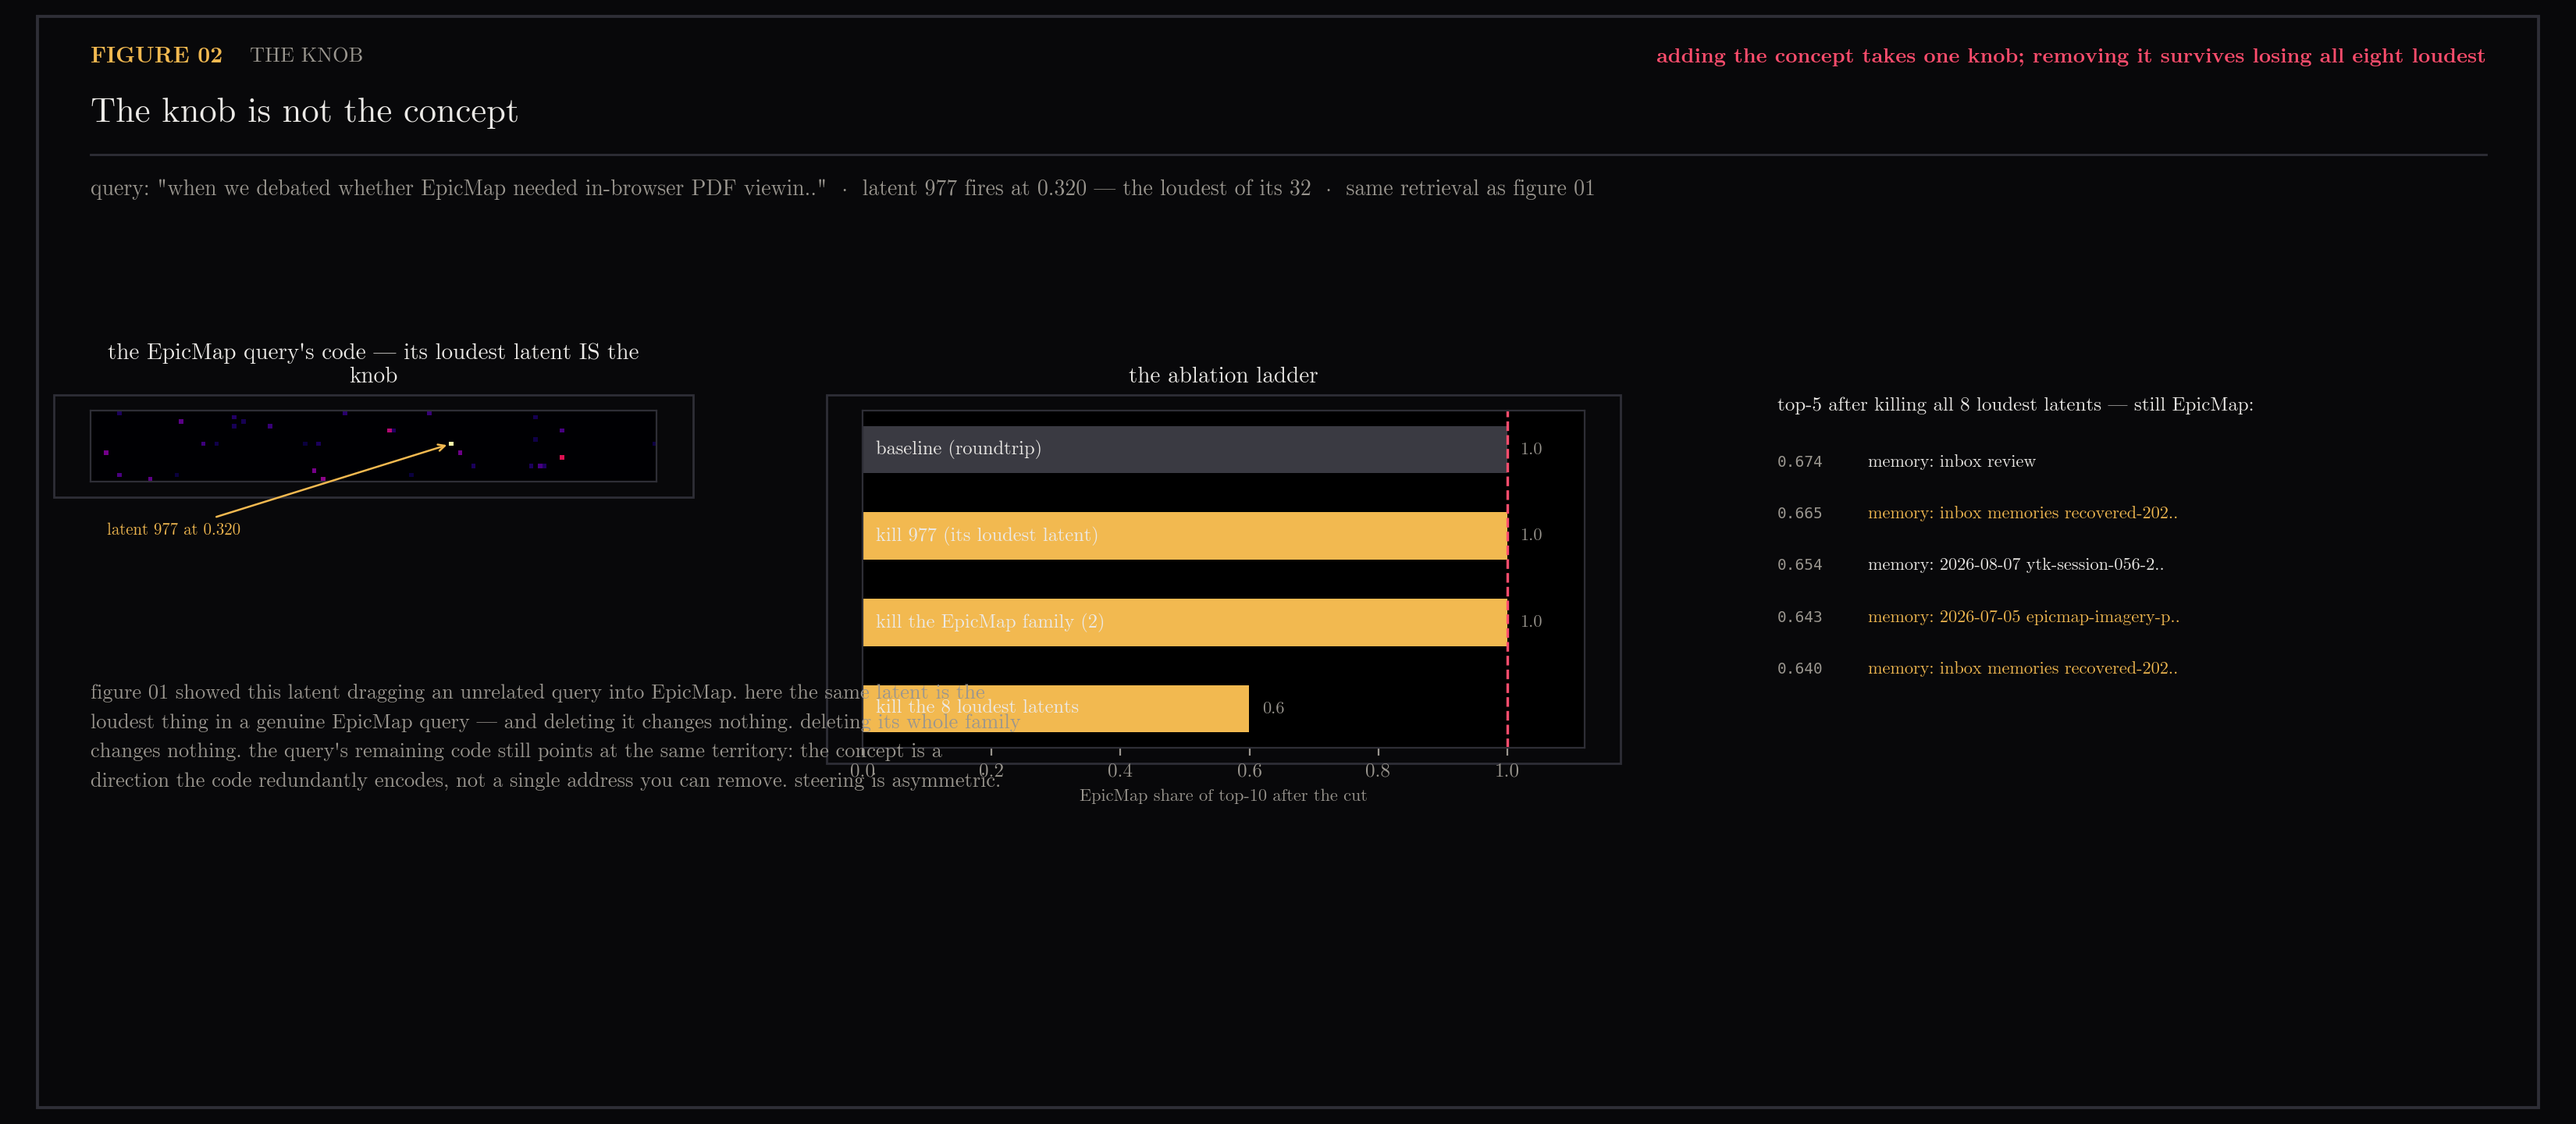
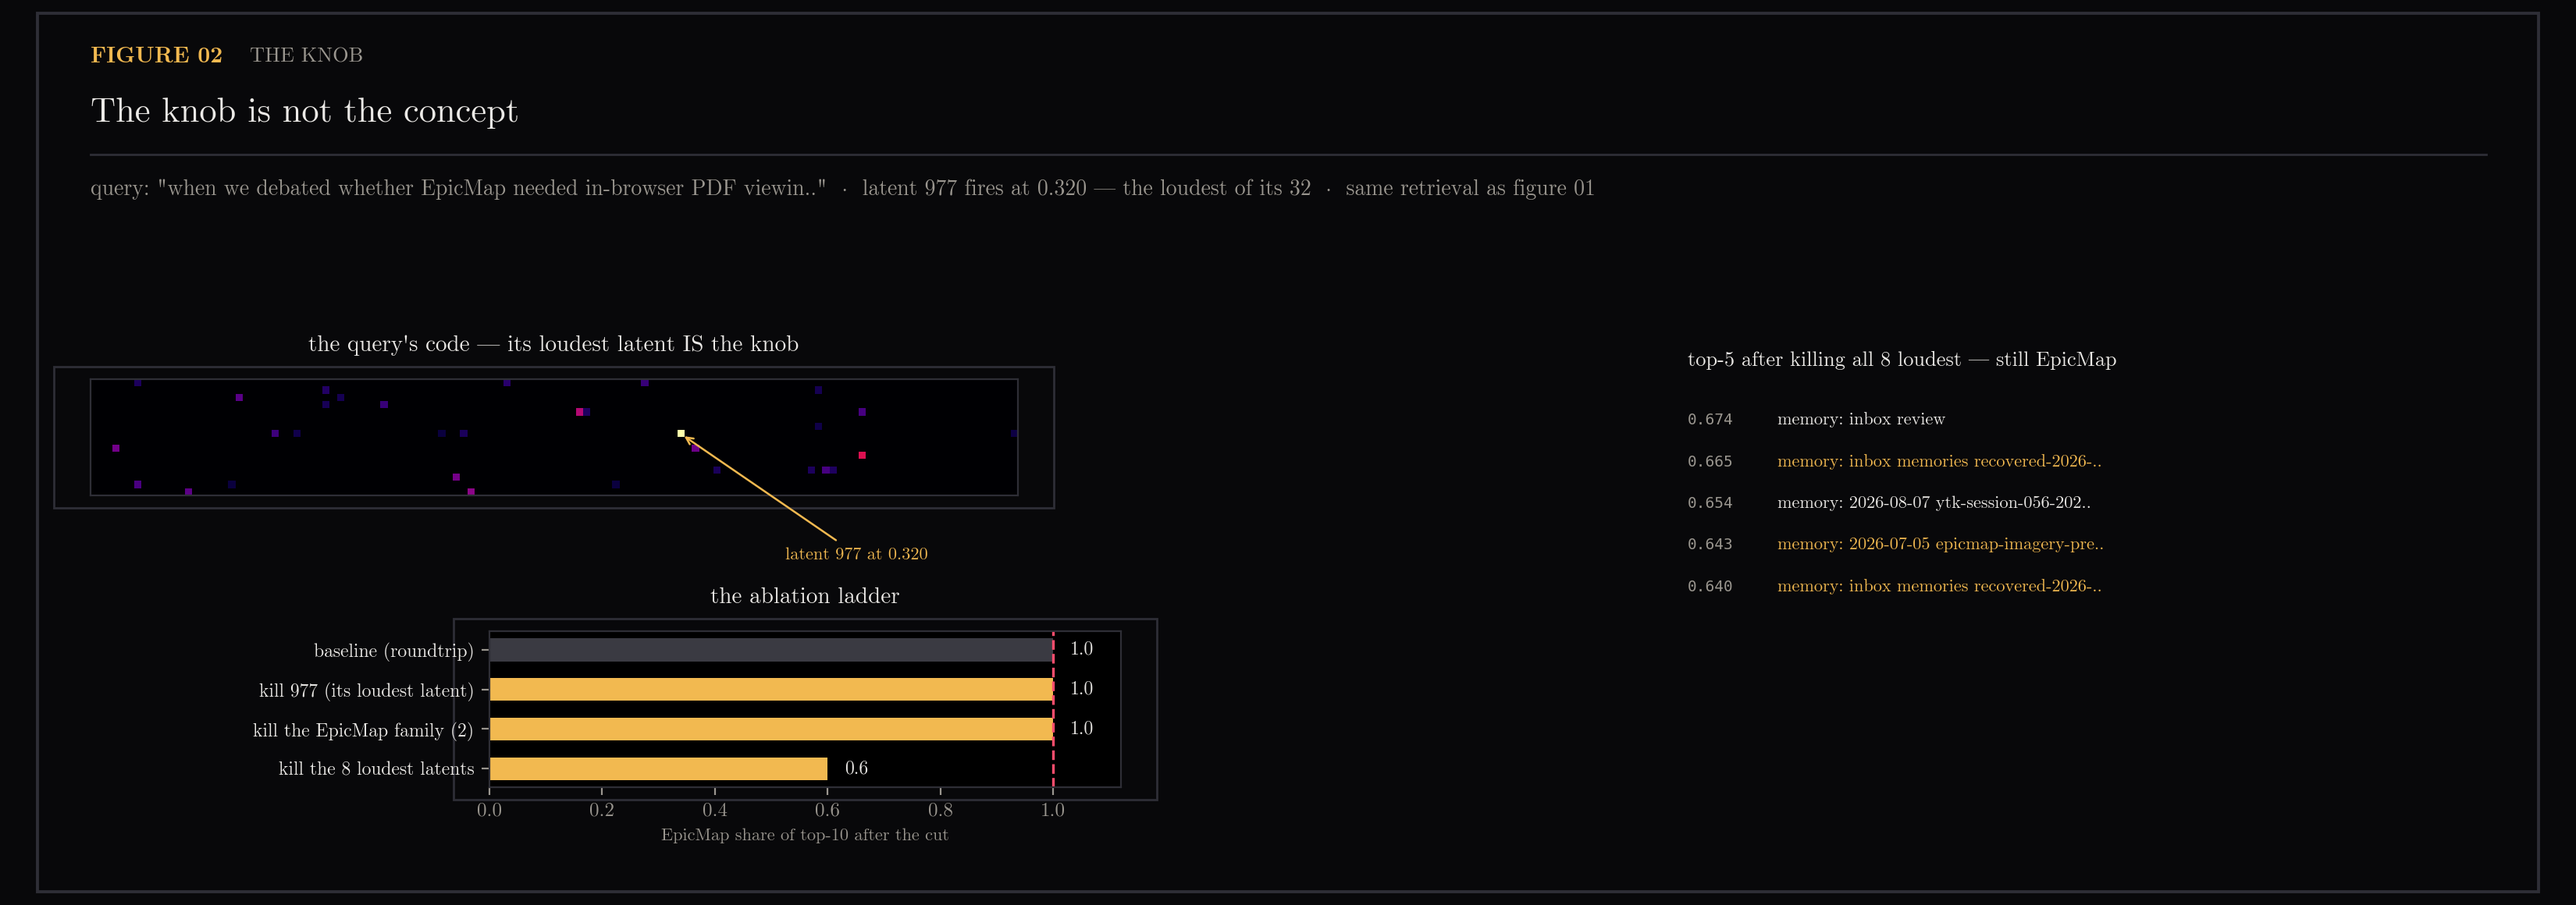
fix(35): prose out of the figures, tables tightened, ladder labels off the bars
Figure 02 rebuilt at 5.8in: the ablation labels are y-tick labels left of
the axis instead of text inside bars (the 0.6 bar could never hold its
own label), values sit at bar ends, and the closing paragraph is gone —
that prose lives in the README, where it already was. Figure 01 loses
half an inch of dead band. Figure 03 drops the per-pair story text for a
compact name column (id in gold, full auto-name wrapped, cosine below,
cursor-spaced so multi-line names cannot collide), rows compacted to a
9in figure with the bottom x-label verified clear by native-resolution
crop. Figures carry objects, readouts and labels; sentences stay in the
markdown.

diff --git a/scripts/plot_the_knob.py b/scripts/plot_the_knob.py
@@ -201,7 +201,7 @@ def fig01(rig):
         f'query: "{short(qtext, 66)}"  ·  latent {LAT} "EpicMap field service SaaS platform", '
         f"natural act on this query 0.000, corpus max {MAXA}  ·  retrieval: cosine over 16,483 vectors, top-10 notes"
     )
-    fig, top = figure(16.5, 8.4, 1, "the knob", "Steering a philosophy query into EpicMap", meta)
+    fig, top = figure(16.5, 7.8, 1, "the knob", "Steering a philosophy query into EpicMap", meta)
 
     y_top = top - 0.10
     a1, h1 = sq_axes(fig, MARGIN, y_top, 0.11)
@@ -271,7 +271,7 @@ def fig01(rig):
         arrowprops={"arrowstyle": "->", "color": MUTED, "lw": 0.8},
     )
 
-    y_l = y_top - h1 - 0.16
+    y_l = y_top - h1 - 0.115
     fig.text(
         MARGIN,
         y_l + 0.045,
@@ -327,10 +327,10 @@ def fig02(rig):
         f'query: "{short(qtext, 62)}"  ·  latent {LAT} fires at {act:.3f} — '
         f"the loudest of its 32  ·  same retrieval as figure 01"
     )
-    fig, top = figure(16.5, 7.2, 2, "the knob", "The knob is not the concept", meta)
+    fig, top = figure(16.5, 5.8, 2, "the knob", "The knob is not the concept", meta)
 
-    y_top = top - 0.10
-    a1, h1 = sq_axes(fig, MARGIN, y_top, 0.22, aspect=16 / 128)
+    y_top = top - 0.09
+    a1, h1 = sq_axes(fig, MARGIN, y_top, 0.36, aspect=16 / 128)
     a1.imshow(
         code_strip(z0),
         cmap=saturated_magma(),
@@ -338,56 +338,43 @@ def fig02(rig):
         vmax=float(z0.max()),
         interpolation="nearest",
     )
-    panel_title(a1, "the EpicMap query's code — its loudest latent IS the knob", 52)
+    panel_title(a1, "the query's code — its loudest latent IS the knob", 70)
     r, c = divmod(LAT, 128)
     a1.annotate(
         f"latent {LAT} at {act:.3f}",
         xy=(c, r),
         xycoords="data",
-        xytext=(0.03, -0.75),
+        xytext=(0.75, -0.55),
         textcoords="axes fraction",
         color=GOLD,
-        fontsize=7.5,
+        fontsize=8,
         annotation_clip=False,
         arrowprops={"arrowstyle": "->", "color": GOLD, "lw": 0.9},
     )
 
-    axb = fig.add_axes([MARGIN + 0.30, y_top - 0.30, 0.28, 0.30])
+    axb = fig.add_axes([MARGIN + 0.155, 0.13, 0.245, y_top - h1 - 0.28])
     style_axes(axb)
     ys = np.arange(len(ladder))[::-1]
-    axb.barh(ys, shares, height=0.55, color=[DIM, GOLD, GOLD, GOLD])
+    axb.barh(ys, shares, height=0.58, color=[DIM, GOLD, GOLD, GOLD])
     axb.axvline(shares[0], color=RED, lw=1.2, ls="--")
-    for y, (label, _), s in zip(ys, ladder, shares):
-        axb.text(0.02, y, label, color=TEXT, fontsize=8.8, va="center")
-        axb.text(s + 0.02, y, f"{s:.1f}", color=MUTED, fontsize=8, va="center")
-    axb.set_yticks([])
+    for y, v in zip(ys, shares):
+        axb.text(v + 0.03, y, f"{v:.1f}", color=TEXT, fontsize=8.5, va="center")
+    axb.set_yticks(ys)
+    axb.set_yticklabels([label for label, _ in ladder], color=TEXT, fontsize=8.5)
     axb.set_xlim(0, 1.12)
     axb.set_xlabel("EpicMap share of top-10 after the cut", color=MUTED, fontsize=8)
     panel_title(axb, "the ablation ladder", 40)
 
-    x0 = MARGIN + 0.655
+    x0 = MARGIN + 0.62
     fig.text(
         x0,
-        y_top,
-        "top-5 after killing all 8 loudest latents — still EpicMap:",
+        y_top + 0.015,
+        "top-5 after killing all 8 loudest — still EpicMap",
         color=TEXT,
-        fontsize=9,
-    )
-    draw_list(fig, x0, y_top - 0.05, rig.top_notes(killed(ladder[3][1]), 5), rig, width=38)
-
-    fig.text(
-        MARGIN,
-        0.30,
-        "figure 01 showed this latent dragging an unrelated query into EpicMap. here the same latent is the\n"
-        "loudest thing in a genuine EpicMap query — and deleting it changes nothing. deleting its whole family\n"
-        "changes nothing. the query's remaining code still points at the same territory: the concept is a\n"
-        "direction the code redundantly encodes, not a single address you can remove. steering is asymmetric.",
-        color=MUTED,
         fontsize=9.5,
-        linespacing=1.7,
     )
+    draw_list(fig, x0, y_top - 0.05, rig.top_notes(killed(ladder[3][1]), 5), rig, width=40)
 
-    verdict(fig, "adding the concept takes one knob; removing it survives losing all eight loudest")
     save(fig, "02-not-the-concept.png")
 
 
@@ -417,7 +404,7 @@ def fig03(rig):
         "decoder rows of the 31 always-on Gemma-Scope cone features (21-geometry/cone-decoder.npz), 2304-dim as 48x48  ·  "
         "pixel order per pair: dims sorted by the first row's values  ·  scatter: one dot per dimension  ·  shared colour scale"
     )
-    fig, top = figure(16.5, 10.4, 3, "the knob", "Opposite knobs, finally visible", meta)
+    fig, top = figure(16.5, 9.0, 3, "the knob", "Opposite knobs, finally visible", meta)
 
     def name_of(j) -> str:
         return cone_names.get(int(idx[j]), "?").rstrip(". \n")
@@ -429,11 +416,9 @@ def fig03(rig):
     for row, (a, b) in enumerate(pairs):
         cval = float(C[a, b])
         order = np.argsort(-W[a])
-        y = y_top - row * 0.45
-        header = f'{idx[a]} "{name_of(a)}"   vs   {idx[b]} "{name_of(b)}"   ·   cos = {cval:.3f}'
-        fig.text(MARGIN, y + 0.012, header, color=TEXT, fontsize=10.5)
+        y = y_top - row * 0.40
         for col, j in ((0, a), (1, b)):
-            ax, h = sq_axes(fig, MARGIN + col * 0.165, y - 0.03, 0.145)
+            ax, h = sq_axes(fig, MARGIN + col * 0.15, y - 0.03, 0.13)
             im = ax.imshow(
                 W[j][order].reshape(48, 48),
                 cmap=cmap,
@@ -443,7 +428,7 @@ def fig03(rig):
             )
             ax.set_title(f"decoder row {idx[j]}", color=MUTED, fontsize=8.5, pad=5)
         side = h * fig.get_figheight() / fig.get_figwidth()
-        axs = fig.add_axes([MARGIN + 0.375, y - 0.03 - h, side, h])
+        axs = fig.add_axes([MARGIN + 0.345, y - 0.03 - h, side, h])
         style_axes(axs)
         rng = float(np.abs(W[[a, b]]).max()) * 1.05
         axs.plot([-rng, rng], [rng, -rng], color=MUTED, lw=0.9, ls="--", zorder=1)
@@ -461,23 +446,24 @@ def fig03(rig):
             fontsize=8.5,
             pad=5,
         )
-        story = (
-            f'every dimension that pushes toward "{name_of(a)}" pulls away from '
-            f'"{name_of(b)}" by the same amount — one direction in the space, two names '
-            "at its two ends. this is the digon geometry from Toy Models of Superposition, "
-            "sitting in a production dictionary."
-        )
-        fig.text(
-            MARGIN + 0.60,
-            y - 0.045,
-            "\n".join(textwrap.wrap(story, 52)),
-            color=MUTED,
-            fontsize=9.5,
-            linespacing=1.7,
-            va="top",
-        )
+        xr = MARGIN + 0.345 + side + 0.055
+        yy = y - 0.045
+        for j in (a, b):
+            fig.text(xr, yy, f"{idx[j]}", color=GOLD, fontsize=11)
+            lines = textwrap.wrap(f'"{name_of(j)}"', 42)
+            fig.text(
+                xr,
+                yy - 0.028,
+                "\n".join(lines),
+                color=TEXT,
+                fontsize=9.5,
+                va="top",
+                linespacing=1.45,
+            )
+            yy -= 0.028 + 0.026 * len(lines) + 0.030
+        fig.text(xr, yy, f"cos = {cval:.3f}", color=MUTED, fontsize=10)
 
-    cax = fig.add_axes([MARGIN, y_top - 0.03 - h - 0.045, 0.31, 0.011])
+    cax = fig.add_axes([MARGIN, y_top - 0.03 - h - 0.05, 0.28, 0.012])
     cax._is_colorbar = True
     cb = fig.colorbar(im, cax=cax, orientation="horizontal")
     cb.outline.set_edgecolor(FRAME)
